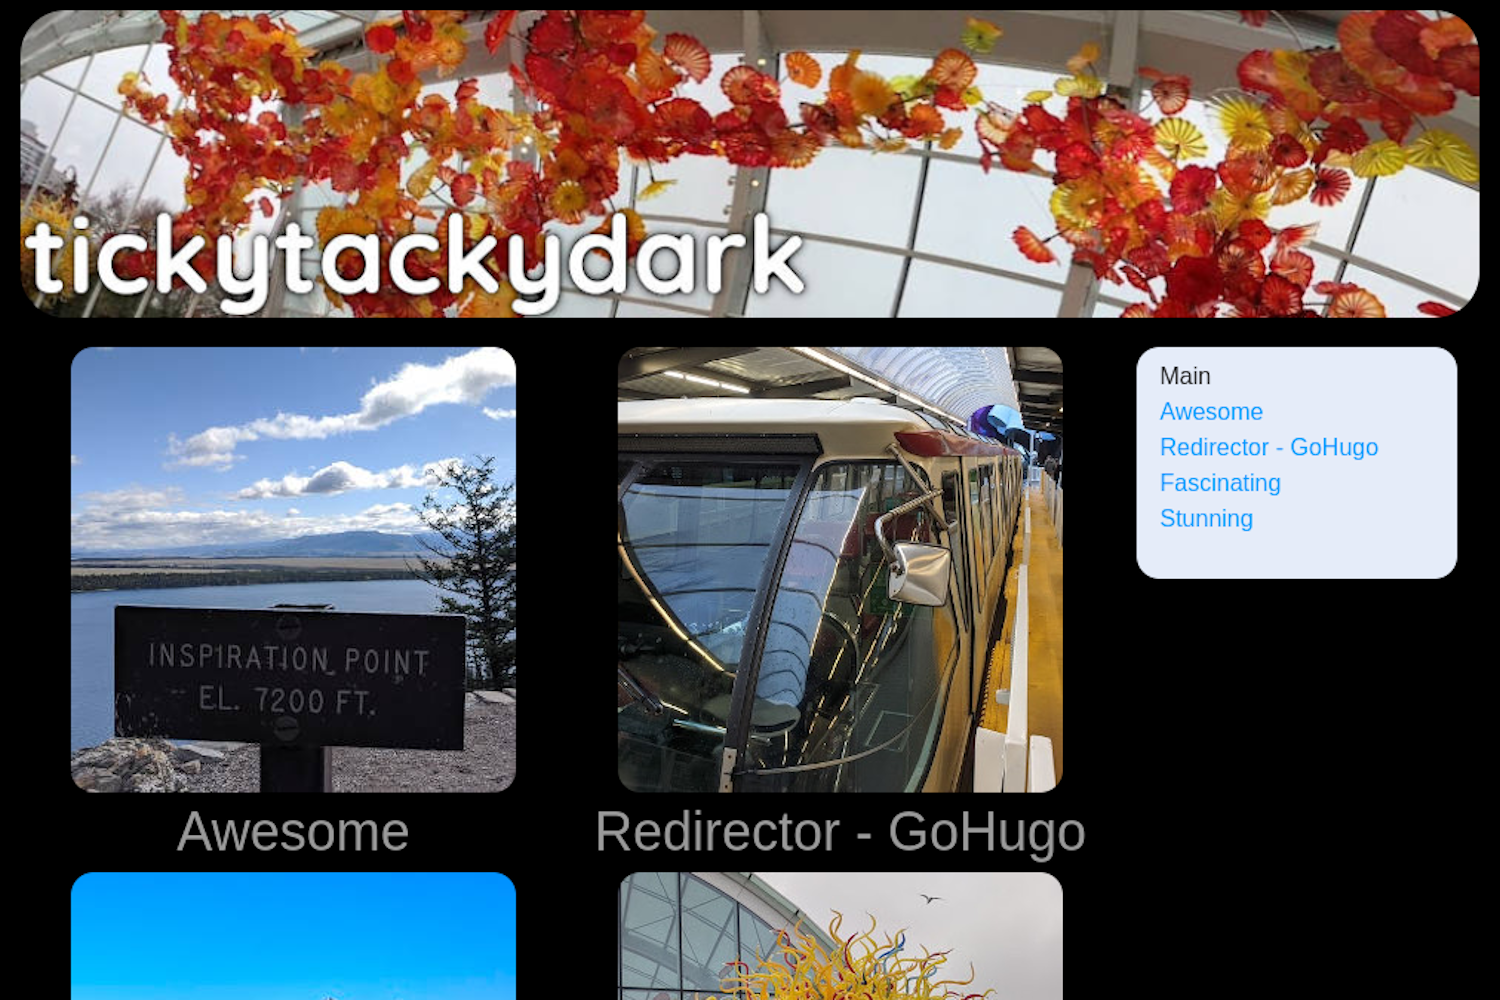
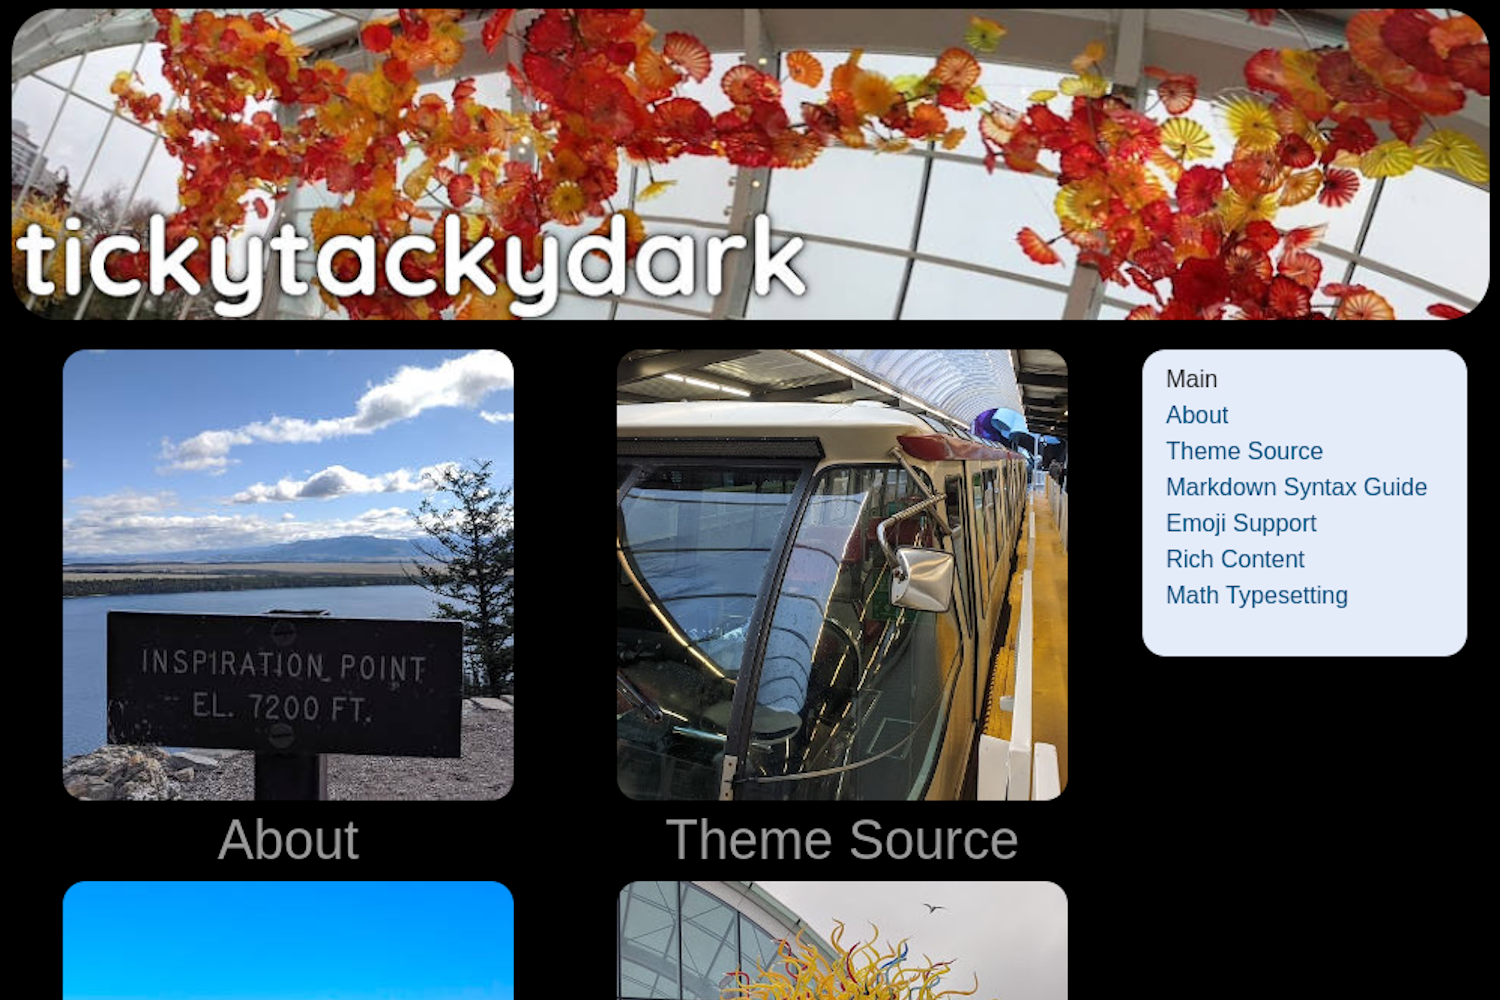
Use hugo theme example site as much as practical

Changed region(s): [[0.0, 0.0, 1.0, 1.0], [0.7053, 0.899, 0.736, 1.0]]

diff --git a/exampleSite/content/markdown-syntax.md b/exampleSite/content/markdown-syntax.md
@@ -1,0 +1,153 @@
+---
+author: "Hugo Authors"
+title: "Markdown Syntax Guide"
+description: "Sample article showcasing basic Markdown syntax and formatting for HTML elements."
+tags: [
+    "markdown",
+    "css",
+    "html",
+    "themes",
+]
+categories: [
+    "themes",
+    "syntax",
+]
+series: ["Themes Guide"]
+aliases: ["migrate-from-jekyl"]
+
+date: 2019-12-08T00:00:00-00:00
+buttonimage: "img/interestingbutton.jpg"
+sideimages: ["img/interesting01.jpg"]
+sideimagealt: "Interesting Page Image"
+draft: false
+weight: 3
+---
+
+This article offers a sample of basic Markdown syntax that can be used in Hugo content files, also it shows whether basic HTML elements are decorated with CSS in a Hugo theme.
+<!--more-->
+
+## Headings
+
+The following HTML `<h1>`—`<h6>` elements represent six levels of section headings. `<h1>` is the highest section level while `<h6>` is the lowest.
+
+# H1
+## H2
+### H3
+#### H4
+##### H5
+###### H6
+
+## Paragraph
+
+Xerum, quo qui aut unt expliquam qui dolut labo. Aque venitatiusda cum, voluptionse latur sitiae dolessi aut parist aut dollo enim qui voluptate ma dolestendit peritin re plis aut quas inctum laceat est volestemque commosa as cus endigna tectur, offic to cor sequas etum rerum idem sintibus eiur? Quianimin porecus evelectur, cum que nis nust voloribus ratem aut omnimi, sitatur? Quiatem. Nam, omnis sum am facea corem alique molestrunt et eos evelece arcillit ut aut eos eos nus, sin conecerem erum fuga. Ri oditatquam, ad quibus unda veliamenimin cusam et facea ipsamus es exerum sitate dolores editium rerore eost, temped molorro ratiae volorro te reribus dolorer sperchicium faceata tiustia prat.
+
+Itatur? Quiatae cullecum rem ent aut odis in re eossequodi nonsequ idebis ne sapicia is sinveli squiatum, core et que aut hariosam ex eat.
+
+## Blockquotes
+
+The blockquote element represents content that is quoted from another source, optionally with a citation which must be within a `footer` or `cite` element, and optionally with in-line changes such as annotations and abbreviations.
+
+#### Blockquote without attribution
+
+> Tiam, ad mint andaepu dandae nostion secatur sequo quae.
+> **Note** that you can use *Markdown syntax* within a blockquote.
+
+#### Blockquote with attribution
+
+> Don't communicate by sharing memory, share memory by communicating.</p>
+> — <cite>Rob Pike[^1]</cite>
+
+
+[^1]: The above quote is excerpted from Rob Pike's [talk](https://www.youtube.com/watch?v=PAAkCSZUG1c) during Gopherfest, November 18, 2015.
+
+## Tables
+
+Tables aren't part of the core Markdown spec, but Hugo supports supports them out-of-the-box.
+
+   Name | Age
+--------|------
+    Bob | 27
+  Alice | 23
+
+#### Inline Markdown within tables
+
+| Inline&nbsp;&nbsp;&nbsp;     | Markdown&nbsp;&nbsp;&nbsp;  | In&nbsp;&nbsp;&nbsp;                | Table      |
+| ---------- | --------- | ----------------- | ---------- |
+| *italics*  | **bold**  | ~~strikethrough~~&nbsp;&nbsp;&nbsp; | `code`     |
+
+## Code Blocks
+
+#### Code block with backticks
+
+```
+html
+<!DOCTYPE html>
+<html lang="en">
+<head>
+  <meta charset="UTF-8">
+  <title>Example HTML5 Document</title>
+</head>
+<body>
+  <p>Test</p>
+</body>
+</html>
+```
+#### Code block indented with four spaces
+
+    <!DOCTYPE html>
+    <html lang="en">
+    <head>
+      <meta charset="UTF-8">
+      <title>Example HTML5 Document</title>
+    </head>
+    <body>
+      <p>Test</p>
+    </body>
+    </html>
+
+#### Code block with Hugo's internal highlight shortcode
+{{< highlight html >}}
+<!DOCTYPE html>
+<html lang="en">
+<head>
+  <meta charset="UTF-8">
+  <title>Example HTML5 Document</title>
+</head>
+<body>
+  <p>Test</p>
+</body>
+</html>
+{{< /highlight >}}
+
+## List Types
+
+#### Ordered List
+
+1. First item
+2. Second item
+3. Third item
+
+#### Unordered List
+
+* List item
+* Another item
+* And another item
+
+#### Nested list
+
+* Item
+1. First Sub-item
+2. Second Sub-item
+
+## Other Elements — abbr, sub, sup, kbd, mark
+
+<abbr title="Graphics Interchange Format">GIF</abbr> is a bitmap image format.
+
+H<sub>2</sub>O
+
+X<sup>n</sup> + Y<sup>n</sup> = Z<sup>n</sup>
+
+Press <kbd><kbd>CTRL</kbd>+<kbd>ALT</kbd>+<kbd>Delete</kbd></kbd> to end the session.
+
+Most <mark>salamanders</mark> are nocturnal, and hunt for insects, worms, and other small creatures.
+

diff --git a/exampleSite/content/emoji-support.md b/exampleSite/content/emoji-support.md
@@ -1,0 +1,58 @@
+---
+author: "Hugo Authors"
+title: "Emoji Support"
+description: "Guide to emoji usage in Hugo"
+tags: [
+    "emoji",
+    ]
+date: 2019-12-08T00:00:00-00:00
+buttonimage: "img/coolbutton.jpg"
+sideimages: ["img/cool01.jpg"]
+sideimagealt: "Cool Page Image"
+draft: false
+weight: 4
+---
+
+Emoji can be enabled in a Hugo project in a number of ways. 
+<!--more-->
+The [`emojify`](https://gohugo.io/functions/emojify/) function can be called directly in templates or [Inline Shortcodes](https://gohugo.io/templates/shortcode-templates/#inline-shortcodes). 
+
+To enable emoji globally, set `enableEmoji` to `true` in your site’s [configuration](https://gohugo.io/getting-started/configuration/) and then you can type emoji shorthand codes directly in content files; e.g.
+
+
+<p><span class="nowrap"><span class="emojify">🙈</span> <code>:see_no_evil:</code></span>  <span class="nowrap"><span class="emojify">🙉</span> <code>:hear_no_evil:</code></span>  <span class="nowrap"><span class="emojify">🙊</span> <code>:speak_no_evil:</code></span></p>
+<br>
+
+The [Emoji cheat sheet](http://www.emoji-cheat-sheet.com/) is a useful reference for emoji shorthand codes.
+
+***
+
+**N.B.** The above steps enable Unicode Standard emoji characters and sequences in Hugo, however the rendering of these glyphs depends on the browser and the platform. To style the emoji you can either use a third party emoji font or a font stack; e.g.
+
+{{< highlight html >}}
+.emoji {
+font-family: Apple Color Emoji,Segoe UI Emoji,NotoColorEmoji,Segoe UI Symbol,Android Emoji,EmojiSymbols;
+}
+{{< /highlight >}}
+
+{{< css.inline >}}
+<style>
+.emojify {
+    font-family: Apple Color Emoji,Segoe UI Emoji,NotoColorEmoji,Segoe UI Symbol,Android Emoji,EmojiSymbols;
+    font-size: 2rem;
+    vertical-align: middle;
+}
+@media screen and (max-width:650px) {
+    .nowrap {
+    display: block;
+    margin: 25px 0;
+}
+}
+</style>
+{{< /css.inline >}}
+
+{{< dropdown/link togglename="dropstuff" linktext="This demonstrates the dropdown shortcode.  Click this." >}}
+
+{{< dropdown/content togglename="dropstuff" >}}
+    This stuff drops down because you clicked on the text.
+{{< /dropdown/content >}}

diff --git a/exampleSite/content/about.md b/exampleSite/content/about.md
@@ -1,0 +1,30 @@
+---
+title: "About"
+description: "Hugo, the world’s fastest framework for building websites"
+aliases: ["about-us","about-hugo","contact"]
+author: "Hugo Authors"
+date: 2019-12-08T00:00:00-00:00
+buttonimage: "img/awebutton.jpg"
+sideimages: ["img/awesome01.jpg", "img/awesome02.jpg"]
+sideimagealt: "Awesome Page Image"
+draft: false
+weight: 1
+---
+
+Written in Go, Hugo is an open source static site generator available under the [Apache Licence 2.0.](https://github.com/gohugoio/hugo/blob/master/LICENSE) Hugo supports TOML, YAML and JSON data file types, Markdown and HTML content files and uses shortcodes to add rich content. Other notable features are taxonomies, multilingual mode, image processing, custom output formats, HTML/CSS/JS minification and support for Sass SCSS workflows.
+
+Hugo makes use of a variety of open source projects including:
+
+* https://github.com/yuin/goldmark
+* https://github.com/alecthomas/chroma
+* https://github.com/muesli/smartcrop
+* https://github.com/spf13/cobra
+* https://github.com/spf13/viper
+
+Hugo is ideal for blogs, corporate websites, creative portfolios, online magazines, single page applications or even a website with thousands of pages.
+
+Hugo is for people who want to hand code their own website without worrying about setting up complicated runtimes, dependencies and databases.
+
+Websites built with Hugo are extremelly fast, secure and can be deployed anywhere including, AWS, GitHub Pages, Heroku, Netlify and any other hosting provider.
+
+Learn more and contribute on [GitHub](https://github.com/gohugoio).

diff --git a/exampleSite/content/rich-content.md b/exampleSite/content/rich-content.md
@@ -1,0 +1,45 @@
++++
+author = "Hugo Authors"
+title = "Rich Content"
+description = "A brief description of Hugo Shortcodes"
+tags = [
+    "shortcodes",
+    "privacy",
+]
+buttonimage = "img/richbutton.jpg"
+sideimages = ["img/rich01.jpg"]
+sideimagealt = "Looking out on a pond at Capilano Suspension Bridge, Vancouver, BC"
+weight = 5
++++
+
+Hugo ships with several [Built-in Shortcodes](https://gohugo.io/content-management/shortcodes/#use-hugo-s-built-in-shortcodes) for rich content, along with a [Privacy Config](https://gohugo.io/about/hugo-and-gdpr/) and a set of Simple Shortcodes that enable static and no-JS versions of various social media embeds.
+<!--more-->
+---
+
+## Instagram Simple Shortcode
+
+{{< instagram_simple BGvuInzyFAe hidecaption >}}
+
+<br>
+
+---
+
+## YouTube Privacy Enhanced Shortcode
+
+{{< youtube ZJthWmvUzzc >}}
+
+<br>
+
+---
+
+## Twitter Simple Shortcode
+
+{{< twitter_simple 1085870671291310081 >}}
+
+<br>
+
+---
+
+## Vimeo Simple Shortcode
+
+{{< vimeo_simple 48912912 >}}

diff --git a/exampleSite/content/_index.md b/exampleSite/content/_index.md
@@ -1,5 +1,6 @@
 ---
 title: "Main"
+author: "Hugo Authors"
 date: 2019-12-08T00:00:00-00:00
 draft: false
 ---
